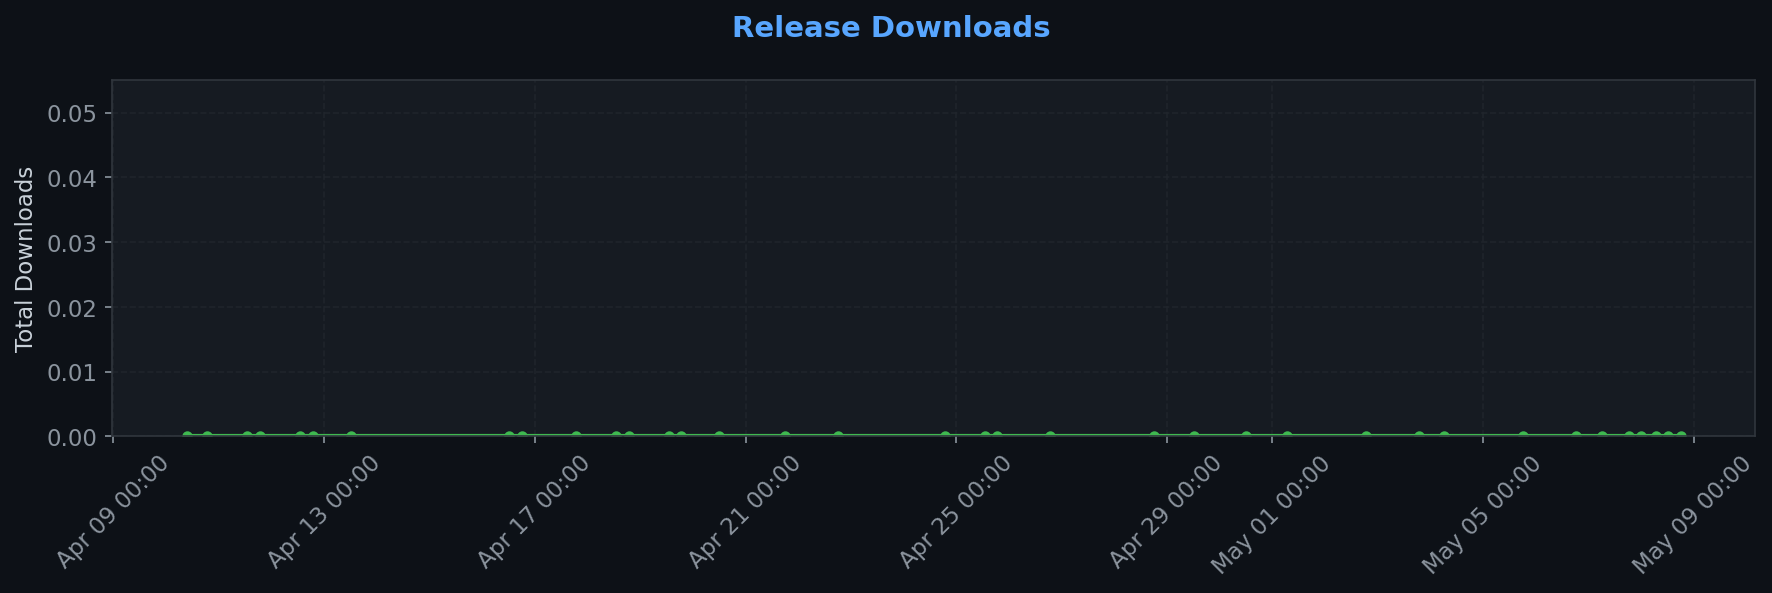
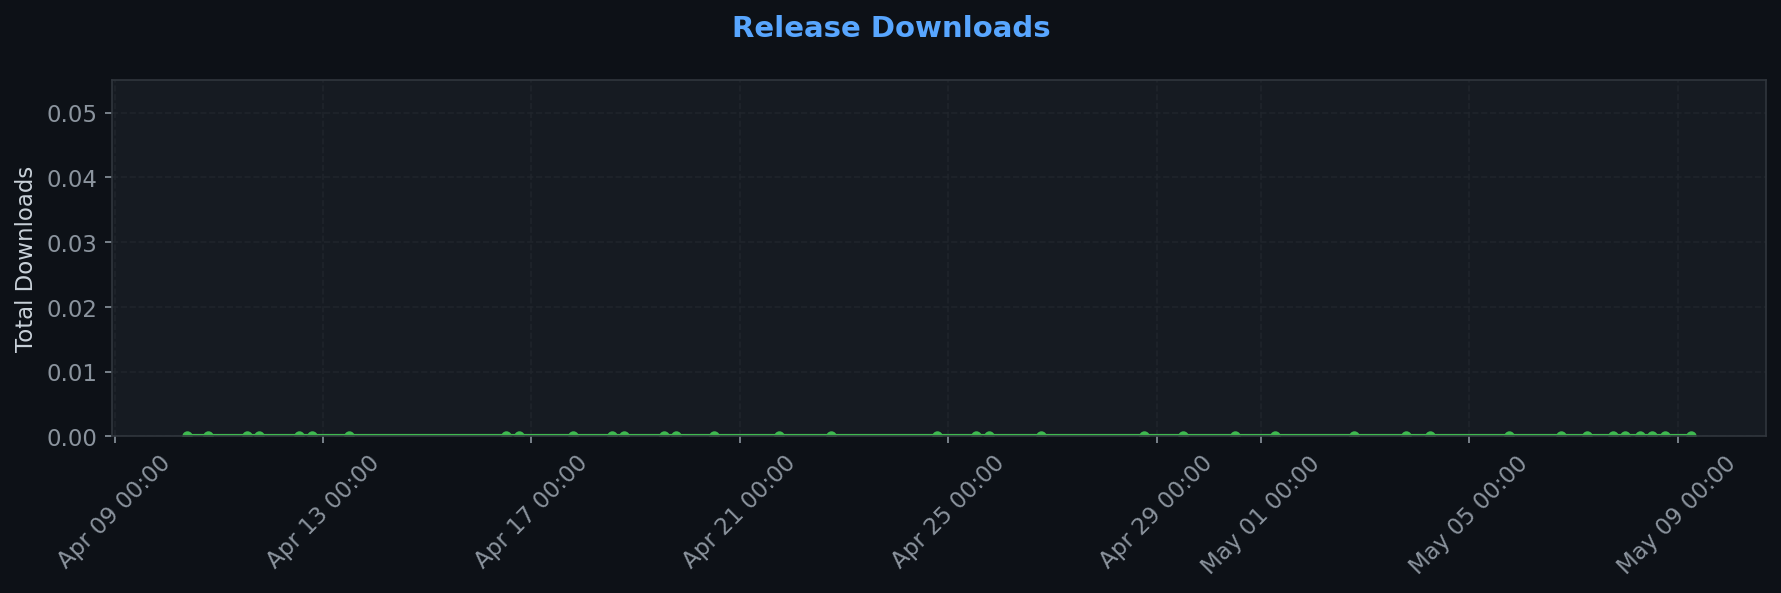
chore: Full traffic snapshot 2026-05-09_06:13

diff --git a/.github/traffic/SUMMARY.md b/.github/traffic/SUMMARY.md
@@ -1,7 +1,7 @@
 # Repository Traffic Dashboard
 
-**Last updated:** 2026-05-08T18:07:44Z
-**Days tracked:** 25 | **Download snapshots:** 36 (hourly)
+**Last updated:** 2026-05-09T06:13:03Z
+**Days tracked:** 26 | **Download snapshots:** 37 (hourly)
 
 ---
 
